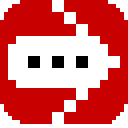
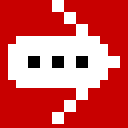
updated description of rsc site

Changed region(s): [[0.0, 0.8125, 1.0, 1.0], [0.8438, 0.0, 1.0, 0.1562], [0.0, 0.0, 0.1562, 0.1562]]

diff --git a/right-side-comments/index.html b/right-side-comments/index.html
@@ -6,9 +6,9 @@
   <title>Right Side Comments</title>
   <meta
     name="description"
-    content="Move YouTube comments to the right side with quick toggles for recommended videos, scrollbar visibility, compact layout, and a persistent comment box."
-  />
-  <link rel="icon" type="image/png" href="./assets/icon128.png" />
+    content="Experimental: Move YouTube comments to the right side with quick toggles for recommended videos, scrollbar visibility, compact layout, and a persistent comment box."
+    />
+  <link rel="icon" type="image/png" href="./assets/icon.png" />
   <link rel="apple-touch-icon" href="./assets/icon128.png" />
   <link rel="stylesheet" href="./style.css" />
 </head>
@@ -20,8 +20,6 @@
   </header>
 
   <main class="container">
-    
-    
     <div class="actions">
       <a href="https://chromewebstore.google.com/detail/right-side-commments/dbbdaiekbopmfbjdchgggfeabapnacnh" target="_blank" rel="noopener noreferrer" aria-label="Install from Chrome Web Store">
         <img class="browser-icon-img" src="https://cdn.simpleicons.org/googlechrome" alt="" aria-hidden="true" />
@@ -40,32 +38,37 @@
         <span>GitHub</span>
       </a>
     </div>
-    <p class="lead">Move comments to the right side and keep your watch page clean.</p>
 
+    <section class="shots">
+      <img src="./assets/images/light_mode_layout.png" width="400" height="250" alt="Light mode layout" />
+      <img src="./assets/images/dark_mode_layout.png" width="400" height="250" alt="Dark mode layout" />
+      <img src="./assets/images/popup.png" width="150" height="266" alt="Popup controls" />
+    </section>
 
     <section>
-      <h2>Controls</h2>
+      <h2>Behaviour Controls</h2>
       <ul>
-        <li>Sidebar toggle</li>
-        <li>Expand description</li>
-        <li>Show recommended</li>
-        <li>Show scrollbar</li>
-        <li>Compact comments</li>
-        <li>Persistent comment box</li>
+        <li><strong>Sidebar</strong> — Turn right-side comments on/off</li>
+        <li><strong>Expand description</strong> — Expand when sidebar mode is enabled; collapse when disabled</li>
+        <li><strong>Related videos</strong> — Show or hide related videos</li>
       </ul>
-      <p>To access these settings, click the puzzle icon in the browser's toolbar and then the extension. You can also pin it for easier access.</p>
+      <h2>UI Controls</h2>
+      <ul>
+        <li><strong>Hide scrollbar</strong> — Hide scrollbars. Supports inner (comments section) and outer (entire sidebar) scrollbars separately</li>
+        <li><strong>Compact comments</strong> — Tighter comment spacing</li>
+        <li><strong>Static comment box</strong> — Keeps a fixed container in place while comments load, preventing UI layout shifts</li>
+      </ul>
+      <h2>Experimental Controls</h2>
+      <ul>
+        <li><strong>Comments width</strong> — Adjust the width of the comments sidebar (15-40%)</li>
+        <li><strong>Hide side margins</strong> — Remove spacing on the left and right sides of the video</li>
+      </ul>
       <h2>Shortcuts</h2>
       <ul>
         <li>Windows: Ctrl+Shift+Y</li>
         <li>Linux: Ctrl+Shift+U</li>
-        <li>Mac: Cmd+Shift+Y</li>
+        <li>macOS: Cmd+Shift+Y</li>
       </ul>
-    </section>
-    
-
-    <section class="shots">
-      <img src="./assets/images/comments.png" alt="Comments on the right" />
-      <img src="./assets/images/popup.png" alt="Popup controls" />
     </section>
   </main>
 

diff --git a/right-side-comments/style.css b/right-side-comments/style.css
@@ -1,5 +1,8 @@
 * {
-  box-sizing: border-box;
+    margin: 0;
+    padding: 0;
+    box-sizing: border-box;
+    scrollbar-width: none;
 }
 
 body {
@@ -44,18 +47,10 @@ h1 {
 
 .version {
   margin: 0;
-
   font-size: 14px;
 }
 
-.lead {
-  margin: 12px 0 0;
-  color: #333;
-  max-width: 560px;
-}
-
 .actions {
-  margin-top: 18px;
   display: flex;
   flex-wrap: wrap;
   gap: 8px;
@@ -70,15 +65,13 @@ h1 {
   color: #111;
   font-weight: 600;
   background: #fff;
-  transition: border-color 0.16s ease, color 0.16s ease, transform 0.16s ease;
+  transition: transform 0.16s ease;
   display: inline-flex;
   align-items: center;
   gap: 8px;
 }
 
 .actions a:hover {
-  border-color: #c80000;
-  color: #c80000;
   transform: translateY(-1px);
 }
 
@@ -94,7 +87,7 @@ section {
 }
 
 h2 {
-  margin: 0 0 10px;
+  margin: 28px 0 10px;
   font-size: 18px;
 }
 
@@ -105,18 +98,17 @@ ul {
   line-height: 1.65;
 }
 
-.shots {
-  justify-content:center;
+section.shots {
   display: flex;
-  gap: 10px;
+  justify-content: center;
+  gap: 16px;
+  margin: 24px 0;
 }
 
-.shots img {
-  max-width: 100%;
-  border: 1px solid #c80000;
+section.shots img {
   border-radius: 10px;
- 
 }
+
 
 footer {
   text-align: center;
